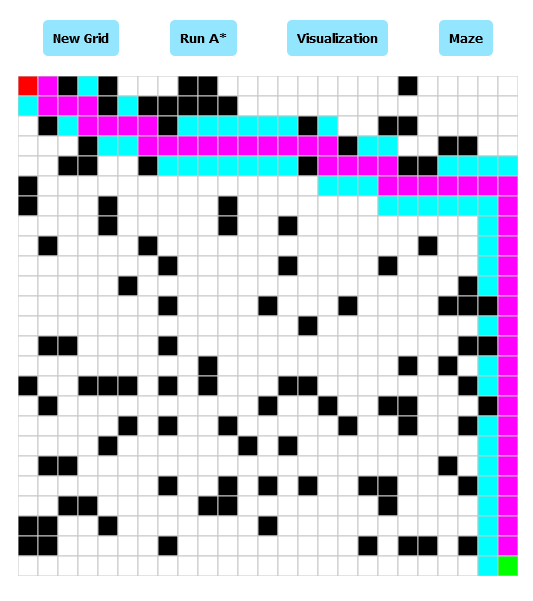
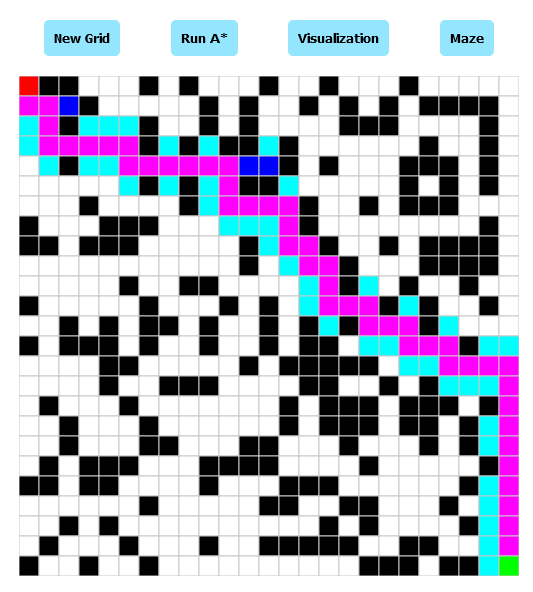
cleanup

diff --git a/sketch.js b/sketch.js
@@ -73,7 +73,7 @@ function NewGrid() {
     for (let j = 0; j < row; j++) {
       cell[i][j] = new Cell(i * width / col, j * height / row);
       //assign on or off
-      if (random(1) < 0.20 && i < col - 1 && j < row - 1) {
+      if (random(1) < 0.30 && i < col-1 && j < row) {
         cell[i][j].on = false;
       }
 
